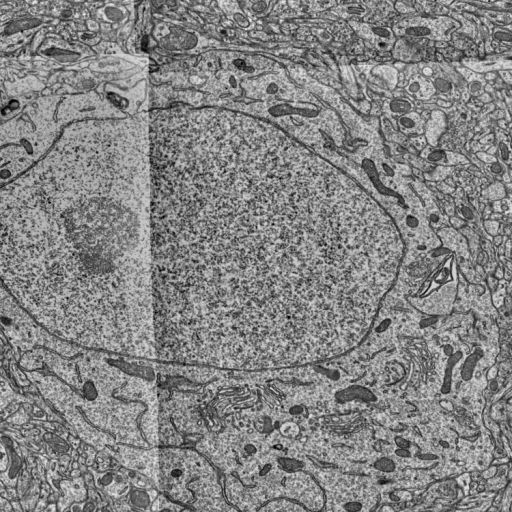
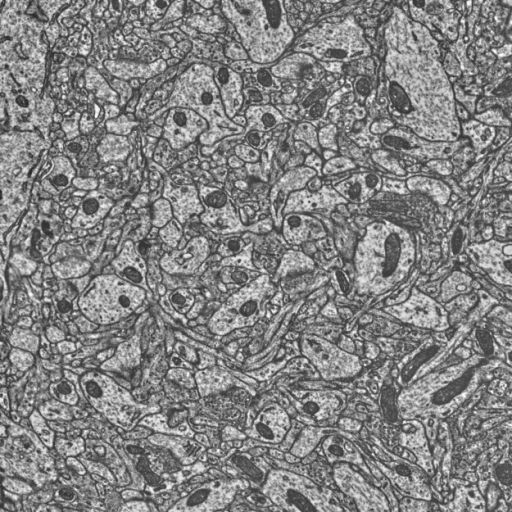
Mini volume: the block sits on a dendrite now, with the colored segmentation (every color a different cell), then the traced cell lights up blue and shows through the block as its 3D branch; one faint slice stays in the box in the final view (Ames)

diff --git a/static/mini-volume/index.html b/static/mini-volume/index.html
@@ -59,7 +59,7 @@
   <p class="lede">Slice a tiny block of brain, image every slice, then reconstruct a neuron. Drag to turn it.</p>
 
   <div id="mv" aria-label="Animation: a tiny block of brain is cut into slices, each slice is imaged by electron microscope and stacked into a volume, then a whole neuron is reconstructed">
-    <img class="fallback" src="s2.jpg" alt="An electron microscope image of brain tissue, with a cell nucleus in the middle">
+    <img class="fallback" src="s2.jpg" alt="An electron microscope image of brain tissue">
     <p class="tag tr" id="tag"></p>
     <p class="cap" id="cap"></p>
     <div class="steps" role="group" aria-label="Steps">
@@ -70,9 +70,9 @@
     <div id="load">loading the tissue</div>
   </div>
 
-  <p class="note">Real data from the MICrONS pinky dataset. The block is 12 &times; 12 &times; 8
-  <span class="unit">&micro;m</span> of electron microscope imagery around this cell's nucleus, each section
-  40 <span class="unit">nm</span> thick. The neuron is pyramidal cell 648518346355727683, reconstructed in 3D
+  <p class="note">Real data from the MICrONS pinky dataset. The block is 10 &times; 10 &times; 8
+  <span class="unit">&micro;m</span> of electron microscope imagery around one of this cell's dendrites, each
+  section 40 <span class="unit">nm</span> thick, with the segmentation colored in. The neuron is pyramidal cell 648518346355727683, reconstructed in 3D
   and drawn at true scale inside the outline of the whole imaged volume.</p>
 </div>
 
@@ -137,7 +137,7 @@ in vec3 aPos; in vec2 aUv; uniform mat4 uMvp; out vec2 vUv;
 void main(){ vUv = aUv; gl_Position = uMvp * vec4(aPos, 1.0); }`,
 `#version 300 es
 precision mediump float; in vec2 vUv; uniform sampler2D uTex; uniform float uAlpha; uniform float uRim;
-uniform float uImg;
+uniform float uImg; uniform sampler2D uSeg; uniform float uSegA; uniform float uFocus;
 out vec4 o;
 void main(){
   float g = texture(uTex, vUv).r;
@@ -145,7 +145,13 @@ void main(){
   // before imaging: a plain section of tissue in resin
   vec3 plain = vec3(0.50, 0.62, 0.72) + 0.06 * (g - 0.5);
   float done = step(vUv.y, uImg);
-  vec3 c = mix(plain, em, done);
+  // the colored segmentation over the imagery: every color is a different cell.
+  // Focus dims the others so the traced cell (its own blue) stands out.
+  vec3 seg = texture(uSeg, vUv).rgb;
+  float isCell = 1.0 - smoothstep(0.10, 0.22, distance(seg, vec3(0.157, 0.549, 1.0)));
+  float segMix = uSegA * mix(0.5 * (1.0 - 0.55 * uFocus), 0.95, isCell);
+  vec3 emc = mix(em * (1.0 - 0.3 * uFocus * (1.0 - isCell)), mix(seg, vec3(0.35, 0.75, 1.0), isCell * uFocus), segMix);
+  vec3 c = mix(plain, emc, done);
   float beam = (1.0 - smoothstep(0.0, 0.03, abs(vUv.y - uImg))) * step(0.001, uImg) * step(uImg, 0.999);
   c = mix(c, vec3(0.75, 0.97, 1.0), beam * 0.85);
   vec2 e = min(vUv, 1.0 - vUv); float d = min(e.x, e.y);
@@ -247,27 +253,31 @@ let S = null;   // everything built once the data is in
 async function build() {
   const meta = await (await fetch('meta.json')).json();
   const names = ['z0','z1','y0','y1','x0','x1','s0','s1','s2','s3','s4'];
-  const [texs, bin] = await Promise.all([
+  const [texs, segs, bin] = await Promise.all([
     Promise.all(names.map((n) => loadTex(n + '.jpg'))),
+    Promise.all(names.map((n) => loadTex(n + '_seg.png'))),
     fetch('cell.bin').then((r) => r.arrayBuffer()),
   ]);
   const T = Object.fromEntries(names.map((n, i) => [n, texs[i]]));
+  const G = Object.fromEntries(names.map((n, i) => [n, segs[i]]));
+  gl.useProgram(texProg.p);
+  gl.uniform1i(texProg.u.uTex, 0); gl.uniform1i(texProg.u.uSeg, 1);
 
   const cmin = meta.cube.min, cmax = meta.cube.max;
   const [x0, y0, z0] = cmin, [x1, y1, z1] = cmax;
   const dx = x1 - x0, dy = y1 - y0, dz = z1 - z0;
   // cube faces. xy images have rows = +y, cols = +x. Side images have rows going down in z.
   const faces = [
-    { t: T.z1, vao: quadVao([x0, y0, z1], [dx, 0, 0], [0, dy, 0]) },
-    { t: T.z0, vao: quadVao([x0, y0, z0], [dx, 0, 0], [0, dy, 0]) },
-    { t: T.y0, vao: quadVao([x0, y0, z1], [dx, 0, 0], [0, 0, -dz]) },
-    { t: T.y1, vao: quadVao([x0, y1, z1], [dx, 0, 0], [0, 0, -dz]) },
-    { t: T.x0, vao: quadVao([x0, y0, z1], [0, dy, 0], [0, 0, -dz]) },
-    { t: T.x1, vao: quadVao([x1, y0, z1], [0, dy, 0], [0, 0, -dz]) },
+    { t: T.z1, g: G.z1, vao: quadVao([x0, y0, z1], [dx, 0, 0], [0, dy, 0]) },
+    { t: T.z0, g: G.z0, vao: quadVao([x0, y0, z0], [dx, 0, 0], [0, dy, 0]) },
+    { t: T.y0, g: G.y0, vao: quadVao([x0, y0, z1], [dx, 0, 0], [0, 0, -dz]) },
+    { t: T.y1, g: G.y1, vao: quadVao([x0, y1, z1], [dx, 0, 0], [0, 0, -dz]) },
+    { t: T.x0, g: G.x0, vao: quadVao([x0, y0, z1], [0, dy, 0], [0, 0, -dz]) },
+    { t: T.x1, g: G.x1, vao: quadVao([x1, y0, z1], [0, dy, 0], [0, 0, -dz]) },
   ];
   // each section as a unit quad at z = 0, lifted by a per frame offset
   const slices = meta.cube.sections.map((z, i) => ({
-    z, t: T['s' + i], vao: quadVao([x0, y0, 0], [dx, 0, 0], [0, dy, 0]),
+    z, t: T['s' + i], g: G['s' + i], vao: quadVao([x0, y0, 0], [dx, 0, 0], [0, dy, 0]),
   }));
 
   // the neuron: uint16 positions over its bounds, uint16 triangle indices
@@ -320,30 +330,32 @@ async function build() {
 
 // ---------------------------------------------------------------- the timeline
 // t in seconds. 0 to 4: the block. 4 to 9: its slices. 9 on: pull back to the neuron.
-const STEP_AT = [0, 4.4, 12.8];
-const LOOP = 20.5;
+const STEP_AT = [0, 4.4, 9.7];
+const LOOP = 23.5;
 const CAPS = [
   'A tiny block of brain is cut into slices, each just 40 nanometers thin',
   'Each slice is imaged, and the pictures stack into a 3D volume',
   'AI and people trace a cell through the volume to reconstruct it in 3D',
 ];
 const TAGS = [
-  '12 &times; 12 &times; 8 <span class="unit">&micro;m</span> block &middot; 5 of its 200 slices',
+  '10 &times; 10 &times; 8 <span class="unit">&micro;m</span> block &middot; 5 of its 200 slices',
   'electron microscope images &middot; real data',
   'one pyramidal cell &middot; MICrONS',
+  'every color is a different cell',
 ];
 const reduce = matchMedia('(prefers-reduced-motion: reduce)').matches;
 let t = 0, playing = !reduce, last = performance.now(), yawDrag = 0, pitchDrag = 0;
 let shownStep = -1;
 const capEl = document.getElementById('cap'), tagEl = document.getElementById('tag');
 const btns = [...root.querySelectorAll('.steps button')];
-function stepOf(tt) { return tt < 4.3 ? 0 : tt < 10.2 ? 1 : 2; }
-function showStep(s) {
+function stepOf(tt) { return tt < 4.3 ? 0 : tt < 9.6 ? 1 : 2; }
+let shownTag = -1;
+function showStep(s, tag = s) {
+  if (tag !== shownTag) { shownTag = tag; tagEl.innerHTML = TAGS[tag]; }
   if (s === shownStep) return;
   shownStep = s;
   btns.forEach((b, i) => { b.classList.toggle('on', i === s); b.setAttribute('aria-pressed', String(i === s)); });
   capEl.textContent = CAPS[s];
-  tagEl.innerHTML = TAGS[s];
 }
 btns.forEach((b, i) => b.addEventListener('click', (e) => {
   e.stopPropagation();
@@ -369,12 +381,13 @@ root.addEventListener('pointercancel', endDrag);
 
 function camera(tt) {
   // close on the block, swinging slowly round it
-  const pull = smooth(10.2, 13.2, tt);
+  const pull = smooth(13.2, 16.2, tt);
   const az0 = -2.35 + 0.05 * tt;                 // three quarter view
   const fan = smooth(1.4, 3.2, tt) * (1 - smooth(7.6, 8.8, tt));
-  const el0 = 0.42 + 0.12 * fan;
+  // during Reconstruct look down on the top, where the traced branch comes through
+  const el0 = 0.42 + 0.12 * fan + 0.38 * smooth(10.4, 11.8, tt);
   // edge on to the slab, looking along x so the cell's long y spread runs across
-  const az1 = Math.PI + 0.16 * Math.sin((tt - 13.2) * 0.5) * smooth(13.2, 14.2, tt);
+  const az1 = Math.PI + 0.16 * Math.sin((tt - 16.2) * 0.5) * smooth(16.2, 17.2, tt);
   const el1 = 0.07;
   let az = az0 + (az1 - az0) * pull + yawDrag;
   let el = clamp(el0 + (el1 - el0) * pull + pitchDrag, -1.2, 1.45);
@@ -386,7 +399,7 @@ function camera(tt) {
   const d1 = Math.max(halfW / (aspect * Math.tan(0.08)), halfH / Math.tan(0.08));
   const d0 = 30 + 11 * fan;
   const dist = Math.exp(Math.log(d0) + (Math.log(d1) - Math.log(d0)) * pull);
-  const target = V.lerp(S.cubeC, S.cellC, smooth(10.4, 13.2, tt));
+  const target = V.lerp(S.cubeC, S.cellC, smooth(13.4, 16.2, tt));
   const dir = [Math.cos(el) * Math.cos(az), Math.cos(el) * Math.sin(az), Math.sin(el)];
   return { eye: V.add(target, V.mul(dir, dist)), target, dist, fov };
 }
@@ -413,18 +426,35 @@ function draw() {
   // Slice: a plain block splits into sections. Image: a beam scans each one,
   // then they close up into the imaged volume. Reconstruct: pull back to the cell.
   const plainCube = smooth(0, 0.6, tt) * (1 - smooth(1.3, 1.8, tt));
-  const emCube  = smooth(8.4, 9.0, tt) * (1 - smooth(10.2, 11.0, tt));
+  const emCube  = smooth(8.4, 9.0, tt) * (1 - 0.55 * smooth(12.0, 12.8, tt) - 0.45 * smooth(13.2, 14.0, tt));
+  // Reconstruct: AI colors in every cell, then ours lights up and the rest dims
+  const segA    = smooth(9.9, 10.8, tt);
+  const focus   = smooth(11.3, 12.2, tt);
   const aCube   = Math.max(plainCube, emCube);
   const cubeImg = emCube > plainCube ? 1 : 0;
   const spread  = smooth(1.4, 3.2, tt) * (1 - smooth(7.6, 8.8, tt));
   const aSlices = smooth(1.2, 1.7, tt) * (1 - smooth(8.6, 9.1, tt));
-  const aCell   = smooth(10.6, 12.6, tt) * fadeLoop;
-  const aSlab   = smooth(11.4, 13.2, tt) * fadeLoop;
-  const aMarker = smooth(10.2, 11.0, tt) * fadeLoop;
+  const aCell   = smooth(11.9, 13.0, tt) * fadeLoop;
+  const aSlab   = smooth(14.4, 16.2, tt) * fadeLoop;
+  const aMarker = smooth(13.2, 14.0, tt) * fadeLoop;
 
   gl.enable(gl.DEPTH_TEST);
   gl.enable(gl.BLEND);
   gl.blendFunc(gl.SRC_ALPHA, gl.ONE_MINUS_SRC_ALPHA);
+
+  // the neuron, first, so the block's faded faces show the branch inside them
+  if (aCell > 0.002) {
+    gl.useProgram(meshProg.p);
+    gl.uniformMatrix4fv(meshProg.u.uMvp, false, mvp);
+    gl.uniform3fv(meshProg.u.uLo, S.lo); gl.uniform3fv(meshProg.u.uSpan, S.span);
+    gl.uniform3fv(meshProg.u.uEye, cam.eye);
+    gl.uniform1f(meshProg.u.uAlpha, aCell);
+    gl.bindVertexArray(S.cellVao);
+    // a ghost of a cell must not hide what is behind it
+    gl.depthMask(aCell > 0.95);
+    gl.drawElements(gl.TRIANGLES, S.nIdx, gl.UNSIGNED_SHORT, 0);
+    gl.depthMask(true);
+  }
 
   // the block's EM faces
   if (aCube > 0.002) {
@@ -432,10 +462,9 @@ function draw() {
     gl.uniformMatrix4fv(texProg.u.uMvp, false, mvp);
     gl.uniform1f(texProg.u.uAlpha, aCube); gl.uniform1f(texProg.u.uRim, 0.9);
     gl.uniform1f(texProg.u.uImg, cubeImg);
+    gl.uniform1f(texProg.u.uSegA, cubeImg * segA); gl.uniform1f(texProg.u.uFocus, focus);
     gl.depthMask(aCube > 0.98);
-    for (const f of S.faces) {
-      gl.bindTexture(gl.TEXTURE_2D, f.t); gl.bindVertexArray(f.vao); gl.drawArrays(gl.TRIANGLES, 0, 6);
-    }
+    for (const f of S.faces) bindPair(f), gl.bindVertexArray(f.vao), gl.drawArrays(gl.TRIANGLES, 0, 6);
     gl.depthMask(true);
   }
 
@@ -443,6 +472,7 @@ function draw() {
   if (aSlices > 0.002) {
     gl.useProgram(texProg.p);
     gl.uniform1f(texProg.u.uRim, 1.0);
+    gl.uniform1f(texProg.u.uSegA, 0); gl.uniform1f(texProg.u.uFocus, 0);
     const cz = S.cubeC[2];
     const order = S.slices.map((s, i) => i);
     if (cam.eye[2] > cz) order.sort((a, b) => S.slices[a].z - S.slices[b].z);
@@ -457,20 +487,9 @@ function draw() {
       // imaged one after another, top section first
       const k = S.slices.length - 1 - i;
       gl.uniform1f(texProg.u.uImg, smooth(4.6 + k * 0.5, 5.4 + k * 0.5, tt));
-      gl.bindTexture(gl.TEXTURE_2D, s.t); gl.bindVertexArray(s.vao); gl.drawArrays(gl.TRIANGLES, 0, 6);
+      bindPair(s); gl.bindVertexArray(s.vao); gl.drawArrays(gl.TRIANGLES, 0, 6);
     }
     gl.depthMask(true);
-  }
-
-  // the neuron
-  if (aCell > 0.002) {
-    gl.useProgram(meshProg.p);
-    gl.uniformMatrix4fv(meshProg.u.uMvp, false, mvp);
-    gl.uniform3fv(meshProg.u.uLo, S.lo); gl.uniform3fv(meshProg.u.uSpan, S.span);
-    gl.uniform3fv(meshProg.u.uEye, cam.eye);
-    gl.uniform1f(meshProg.u.uAlpha, aCell);
-    gl.bindVertexArray(S.cellVao);
-    gl.drawElements(gl.TRIANGLES, S.nIdx, gl.UNSIGNED_SHORT, 0);
   }
 
   // glowing lines on top, additive
@@ -489,6 +508,15 @@ function draw() {
   }
   if (aMarker > 0.002) {
     gl.disable(gl.DEPTH_TEST);
+    // one faint section left in the box, for reference
+    gl.blendFunc(gl.SRC_ALPHA, gl.ONE_MINUS_SRC_ALPHA);
+    const ref = S.slices[2];
+    gl.useProgram(texProg.p);
+    gl.uniformMatrix4fv(texProg.u.uMvp, false, mat4mul(mvp, [1,0,0,0, 0,1,0,0, 0,0,1,0, 0,0,ref.z,1]));
+    gl.uniform1f(texProg.u.uAlpha, 0.42 * aMarker); gl.uniform1f(texProg.u.uRim, 0.6);
+    gl.uniform1f(texProg.u.uImg, 1); gl.uniform1f(texProg.u.uSegA, 1); gl.uniform1f(texProg.u.uFocus, 1);
+    bindPair(ref); gl.bindVertexArray(ref.vao); gl.drawArrays(gl.TRIANGLES, 0, 6);
+    gl.blendFunc(gl.SRC_ALPHA, gl.ONE);
     gl.useProgram(lineProg.p);
     gl.uniformMatrix4fv(lineProg.u.uMvp, false, mvp);
     gl.uniform3f(lineProg.u.uColor, 1.0, 0.86, 0.45);
@@ -500,7 +528,12 @@ function draw() {
   gl.blendFunc(gl.SRC_ALPHA, gl.ONE_MINUS_SRC_ALPHA);
 
   capEl.style.opacity = tagEl.style.opacity = String(Math.min(fadeLoop, smooth(0, 0.5, tt) || (tt > 0 ? 1 : 0)));
-  showStep(stepOf(tt));
+  const st = stepOf(tt);
+  showStep(st, st === 2 && tt < 13.2 ? 3 : st);
+}
+function bindPair(o) {
+  gl.activeTexture(gl.TEXTURE1); gl.bindTexture(gl.TEXTURE_2D, o.g);
+  gl.activeTexture(gl.TEXTURE0); gl.bindTexture(gl.TEXTURE_2D, o.t);
 }
 
 // stop drawing when nobody can see it
